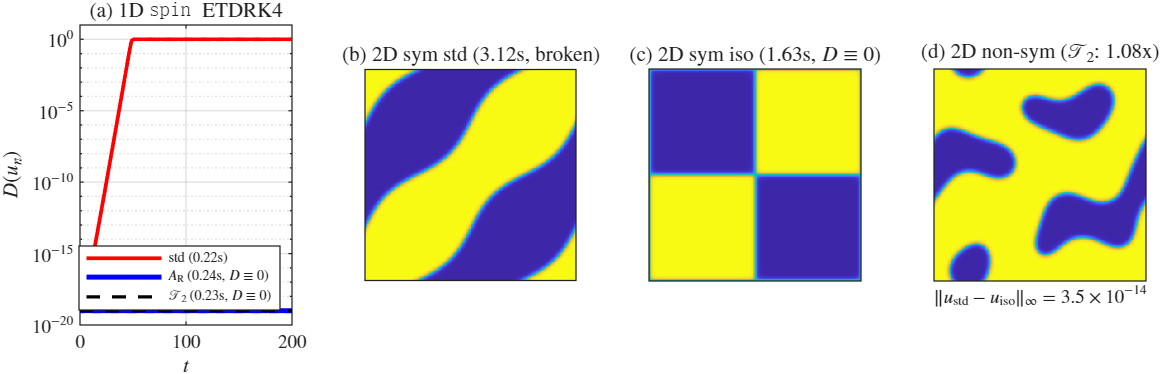
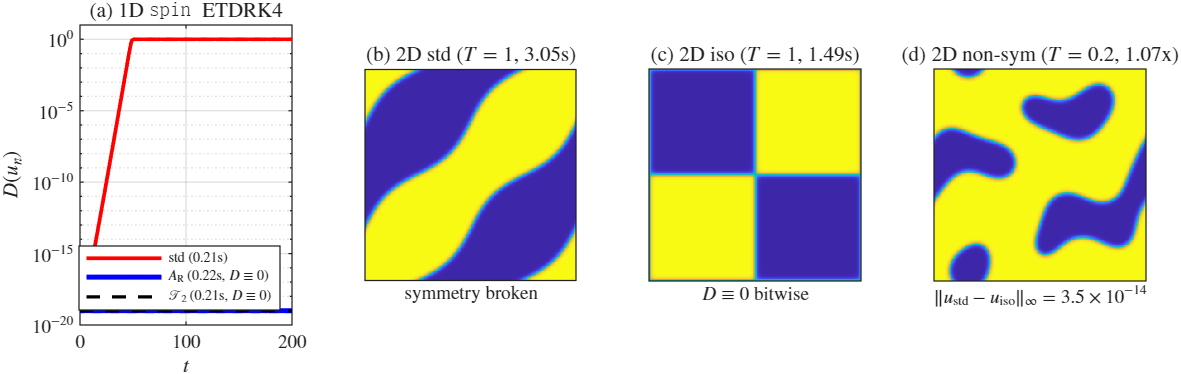
Update 2D final time labels in Chebfun spin demo and figure

diff --git a/dropin-library-backends/chebfun_spin_patch/spin_iso_etdrk4_demo.m b/dropin-library-backends/chebfun_spin_patch/spin_iso_etdrk4_demo.m
@@ -183,16 +183,18 @@ x2 = (0:N2-1)*2*pi/N2; x2(x2>=pi)=x2(x2>=pi)-2*pi; [xs2,ix2]=sort(x2);
 subplot(1,4,2);
 uf_end = real(ifft2(uhf2));
 imagesc(xs2, xs2, uf_end(ix2,ix2)'); axis xy equal tight; caxis([-1 1]); set(gca,'XTick',[],'YTick',[]);
-title(sprintf('(b) 2D sym std (%.2fs, broken)', t_2d_std));
+title(sprintf('(b) 2D std ($T=%g$, %.2fs)', T2, t_2d_std));
+xlabel('symmetry broken','FontSize',7.5);
 
 subplot(1,4,3);
 ui_end = B2_ar.assemble(B2_ar.toPhys(uhi2));
 imagesc(xs2, xs2, ui_end(ix2,ix2)'); axis xy equal tight; caxis([-1 1]); set(gca,'XTick',[],'YTick',[]);
-title(sprintf('(c) 2D sym iso (%.2fs, $D\\equiv0$)', t_2d_ar));
+title(sprintf('(c) 2D iso ($T=%g$, %.2fs)', T2, t_2d_ar));
+xlabel('$D \equiv 0$ bitwise','FontSize',7.5);
 
 subplot(1,4,4);
 imagesc(xs2, xs2, u_ns_t2_end(ix2,ix2)'); axis xy equal tight; caxis([-1 1]); set(gca,'XTick',[],'YTick',[]);
-title(sprintf('(d) 2D non-sym ($\\mathcal T_2$: %.2fx)', t_ns_t2/t_ns_std));
+title(sprintf('(d) 2D non-sym ($T=%.1f$, %.2fx)', n_ns*tau2, t_ns_t2/t_ns_std));
 ex4 = floor(log10(max(err_ns_t2,1e-30))); mt4 = err_ns_t2 / 10^ex4;
 xlabel(sprintf('$\\|u_{\\mathrm{std}}-u_{\\mathrm{iso}}\\|_\\infty=%.1f{\\times}10^{%d}$', mt4, ex4),'FontSize',7.5);
 
